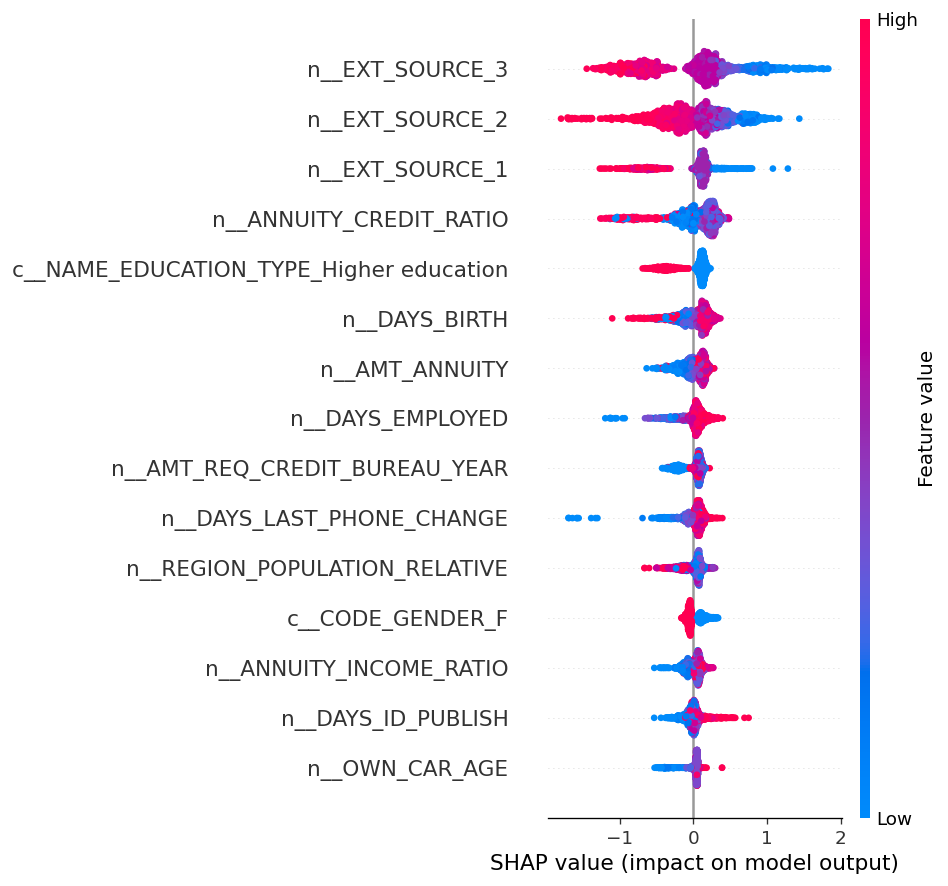
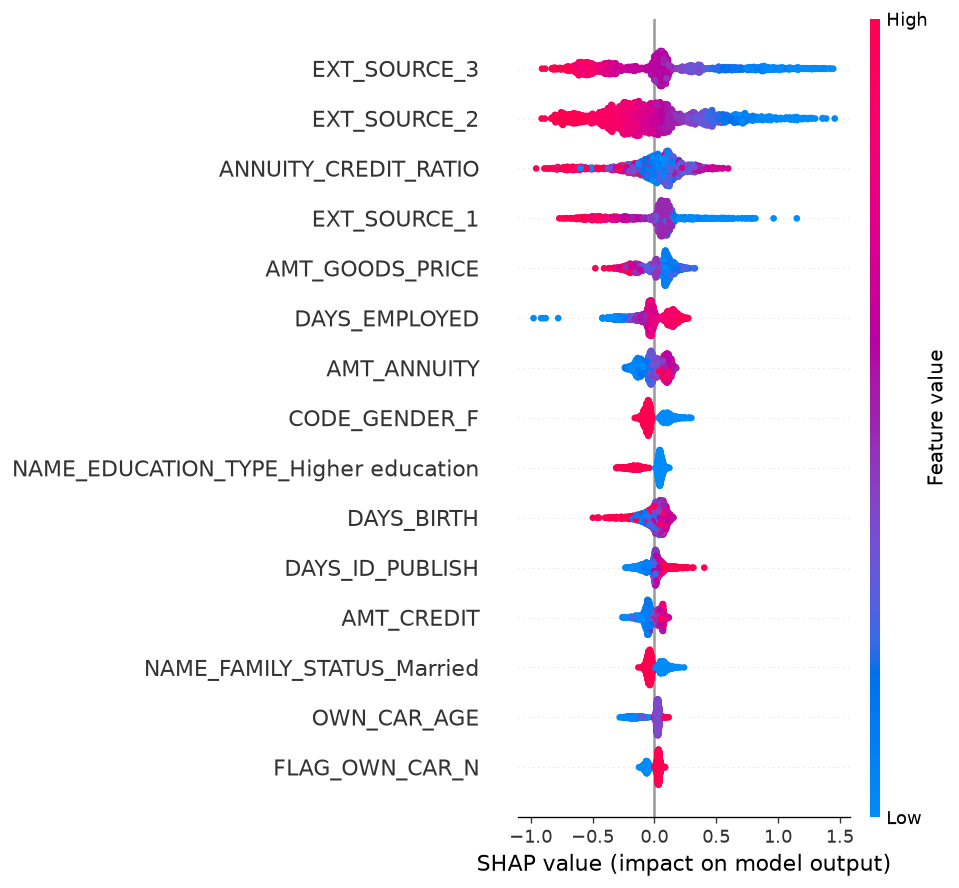
reports: full-data results, calibration before/after plot, SHAP on the full model
Generated by python -m src.model (run twice, identical numbers).

diff --git a/reports/results.md b/reports/results.md
@@ -1,0 +1,85 @@
+# Results
+
+Generated by `python -m src.model`. Do not edit by hand.
+
+Rows used: 307,511 (train 184,506 / calibration 61,502 / test 61,503). Default rate 8.07%. 247 features after one-hot encoding.
+
+## Ranking (test split, 95% bootstrap intervals)
+
+| Model | ROC-AUC | 95% CI | PR-AUC | 95% CI |
+|---|---|---|---|---|
+| Logistic regression | 0.755 | 0.748 to 0.761 | 0.229 | 0.219 to 0.240 |
+| LightGBM | 0.770 | 0.764 to 0.777 | 0.256 | 0.244 to 0.268 |
+
+LightGBM minus logistic regression, paired: ROC-AUC 0.012 to 0.019, PR-AUC 0.020 to 0.032.
+
+Logistic regression converged: True (223 of 2000 iterations).
+
+## Calibration (LightGBM, test split)
+
+Observed default rate on test: 8.07%.
+
+| PDs | Mean PD | Brier | ECE | ROC-AUC |
+|---|---|---|---|---|
+| raw | 0.394 | 0.1846 | 0.3134 | 0.770 |
+| platt | 0.080 | 0.0672 | 0.0026 | 0.770 |
+| isotonic | 0.080 | 0.0672 | 0.0033 | 0.770 |
+
+Logistic regression (class-weighted, uncalibrated), for reference: mean PD 0.421, Brier 0.2020, ECE 0.3399.
+
+## Threshold table (raw LightGBM score, test split)
+
+| Threshold | Precision | Recall | Flag rate |
+|---|---|---|---|
+| 0.30 | 0.119 | 0.898 | 0.610 |
+| 0.40 | 0.143 | 0.803 | 0.453 |
+| 0.50 | 0.176 | 0.687 | 0.316 |
+| 0.60 | 0.220 | 0.536 | 0.197 |
+| 0.70 | 0.279 | 0.339 | 0.098 |
+
+## Operating point
+
+Policy: decline the riskiest 20%. The raw-score threshold that does this on the calibration split is 0.599. On test it flags 19.7% of applicants, catches 53.7% of defaulters (recall), and 22.0% of those flagged did default (precision).
+
+## Expected loss at threshold 0.599 (ILLUSTRATIVE)
+
+LGD 45%, EAD = AMT_CREDIT. Approved share 80.3%.
+
+| Source | Loss on approved loans |
+|---|---|
+| Raw PDs | 4,282,691,241 |
+| Isotonic-calibrated PDs | 636,702,144 |
+| Implied by observed outcomes | 621,087,631 |
+
+## Group check at threshold 0.599
+
+**CODE_GENDER**
+
+| Group | n | Observed default rate | Mean calibrated PD | Approval rate | TPR | FPR |
+|---|---|---|---|---|---|---|
+| F | 40,345 | 0.070 | 0.070 | 0.845 | 0.475 | 0.131 |
+| M | 21,158 | 0.102 | 0.099 | 0.723 | 0.617 | 0.239 |
+
+**Age band**
+
+| Group | n | Observed default rate | Mean calibrated PD | Approval rate | TPR | FPR |
+|---|---|---|---|---|---|---|
+| 18-29 | 8,975 | 0.115 | 0.116 | 0.646 | 0.675 | 0.312 |
+| 30-44 | 24,664 | 0.090 | 0.088 | 0.774 | 0.581 | 0.191 |
+| 45-59 | 20,778 | 0.066 | 0.066 | 0.858 | 0.437 | 0.120 |
+| 60+ | 7,086 | 0.048 | 0.047 | 0.941 | 0.238 | 0.050 |
+
+## Top 10 features by mean |SHAP| (LightGBM, 2,000 test rows)
+
+1. `EXT_SOURCE_3` (0.367)
+2. `EXT_SOURCE_2` (0.327)
+3. `ANNUITY_CREDIT_RATIO` (0.171)
+4. `EXT_SOURCE_1` (0.170)
+5. `AMT_GOODS_PRICE` (0.116)
+6. `DAYS_EMPLOYED` (0.112)
+7. `AMT_ANNUITY` (0.079)
+8. `CODE_GENDER_F` (0.075)
+9. `NAME_EDUCATION_TYPE_Higher education` (0.075)
+10. `DAYS_BIRTH` (0.067)
+
+Run time: 155.1 s.
